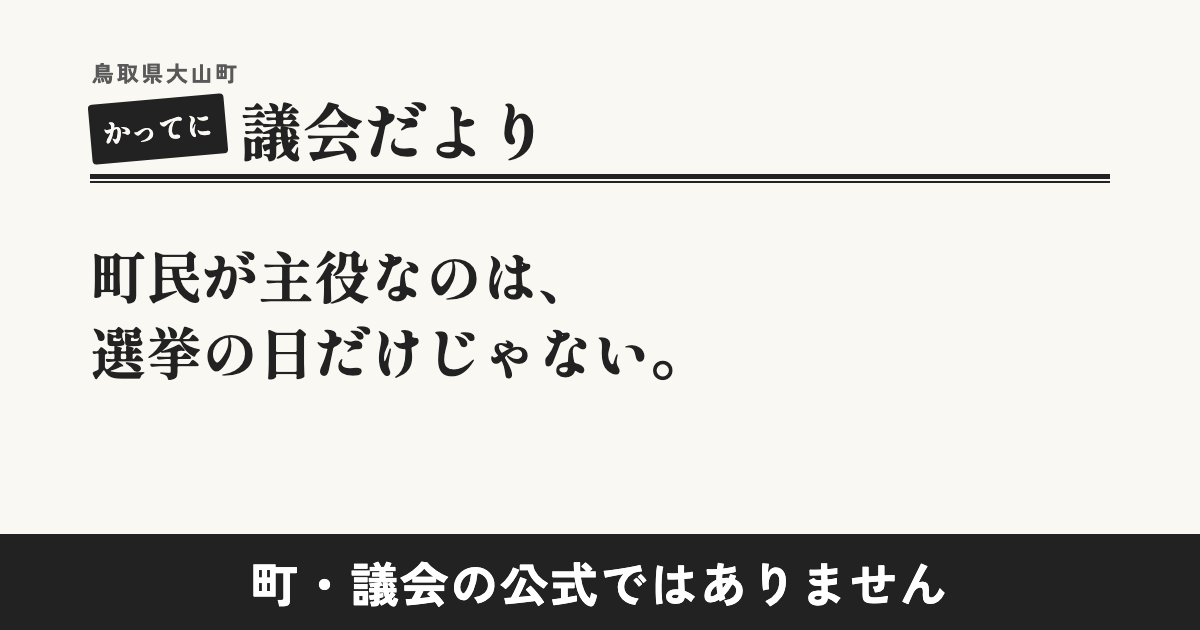
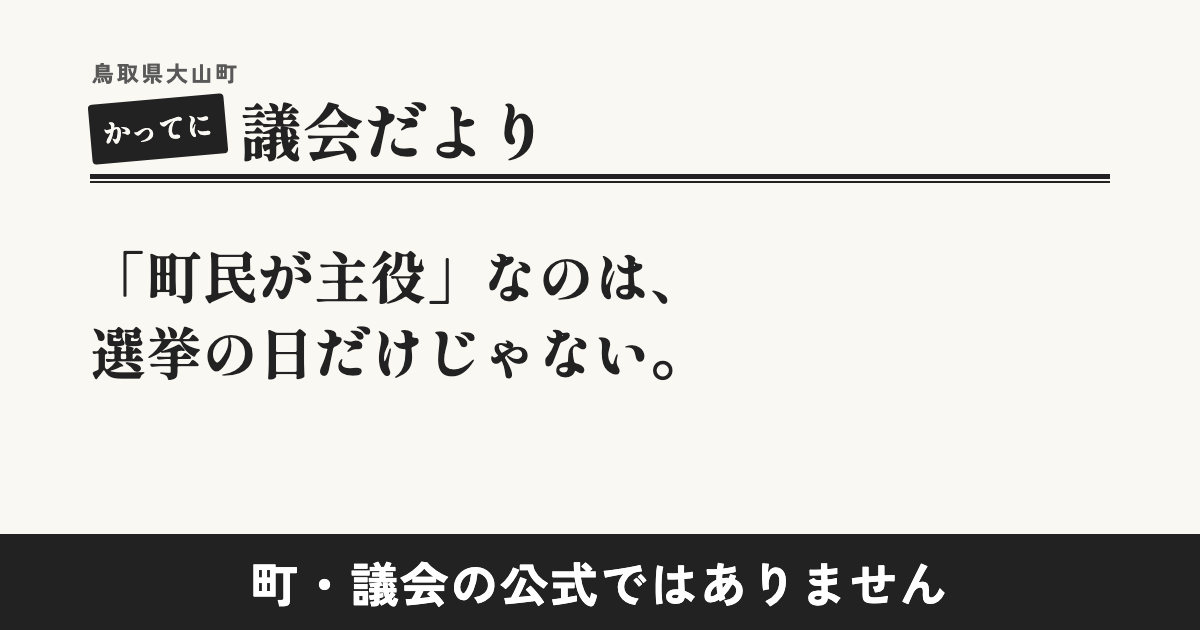
合言葉の「町民が主役」をかぎかっこで強調

Changed region(s): [[0.0617, 0.3921, 0.555, 0.4825]]

diff --git a/src/config/site.ts b/src/config/site.ts
@@ -1,7 +1,7 @@
 // サイト全体の設定。名前とURLはここを直せば全ページに反映される
 export const SITE = {
   name: 'かってに議会だより',
-  subtitle: '町民が主役なのは、選挙の日だけじゃない。',
+  subtitle: '「町民が主役」なのは、選挙の日だけじゃない。',
   place: '鳥取県大山町',
   description:
     '鳥取県大山町議会の注目の議案を、採決の前に賛成・反対の両方から解説し、町民の声を集めます。大山町・大山町議会の公式サイトではありません。',
